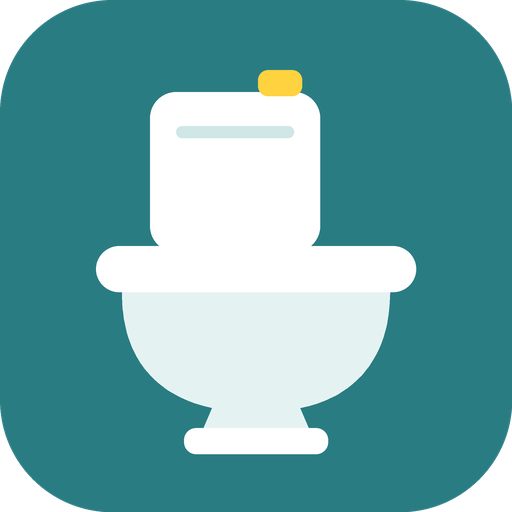
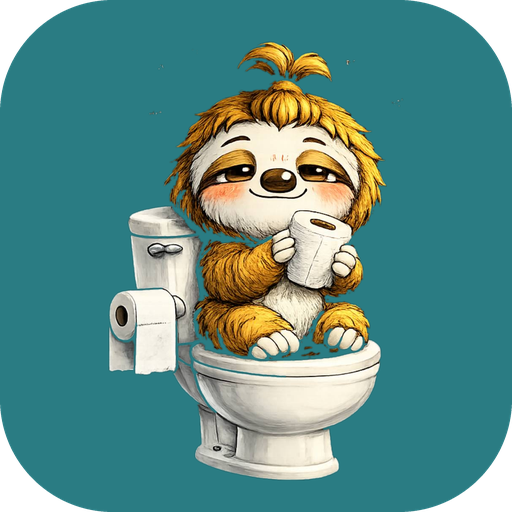
Add files via upload

diff --git a/index.html b/index.html
@@ -56,7 +56,9 @@ button:focus-visible{outline:3px solid var(--teal);outline-offset:2px}
 header{display:flex;align-items:center;justify-content:space-between;gap:12px;margin-bottom:18px;
   background:#2A7C83;color:#fff;border-radius:22px;padding:16px 18px;box-shadow:0 4px 0 #1B565B}
 h1{font-family:Mitr,sans-serif;font-weight:600;font-size:30px;line-height:1.1;margin:0;display:flex;align-items:center;gap:10px}
-h1 .logo{display:inline-grid;place-items:center;width:44px;height:44px;border-radius:14px;background:#FFD23F;font-size:26px}
+.hleft{display:flex;align-items:center;gap:10px;min-width:0}
+.hleft .logo{height:96px;width:auto;flex:none;margin:-14px 0 -14px -6px;filter:drop-shadow(0 3px 4px rgba(0,0,0,.3))}
+@media (max-width:380px){.hleft .logo{height:78px;margin:-10px 0 -10px -4px} h1{font-size:26px}}
 .sync{font-size:13px;color:rgba(255,255,255,.85);margin-top:4px}
 .clock{font-family:Mitr,sans-serif;font-size:16px;color:#fff;text-align:right;background:rgba(255,255,255,.16);border-radius:12px;padding:6px 10px;white-space:nowrap}
 
@@ -176,7 +178,7 @@ tr.sel td{background:var(--tile)}
 .auth.show{display:grid;place-items:center}
 .abox{width:100%;max-width:400px;background:var(--surface);border:1px solid var(--line);border-radius:24px;overflow:hidden}
 .ahead{background:#2A7C83;color:#fff;padding:22px 20px;text-align:center}
-.ahead .logo{display:inline-grid;place-items:center;width:60px;height:60px;border-radius:18px;background:#FFD23F;font-size:34px;margin-bottom:8px}
+.ahead .logo{display:block;height:130px;width:auto;margin:0 auto 8px;filter:drop-shadow(0 3px 5px rgba(0,0,0,.3))}
 .ahead h2{font-family:Mitr,sans-serif;font-size:26px;font-weight:600;margin:0}
 .ahead p{margin:4px 0 0;font-size:14px;opacity:.9}
 .abody{padding:20px}
@@ -213,10 +215,10 @@ tr.sel td{background:var(--tile)}
 <body>
 <div class="wrap">
   <header>
-    <div>
-      <h1><span class="logo" aria-hidden="true">🚽</span>บันทึกขับถ่าย</h1>
[1 lines of base64/hex data omitted]
+      <h1>บันทึกขับถ่าย</h1>
       <div class="sync" id="sync">เก็บในเครื่องนี้</div>
-    </div>
+    </div></div>
     <div class="hright">
       <div class="clock" id="clock"></div>
       <div class="userbar" id="userbar"><button id="logout">ออกจากระบบ</button></div>
@@ -273,7 +275,7 @@ tr.sel td{background:var(--tile)}
 
 <div class="auth" id="auth">
   <div class="abox">
-    <div class="ahead"><div class="logo" aria-hidden="true">🚽</div><h2>บันทึกขับถ่าย</h2><p>เข้าสู่ระบบเพื่อใช้ข้อมูลเดียวกันได้ทุกเครื่อง</p></div>
[1 lines of base64/hex data omitted]
     <div class="abody">
       <div class="acfg" id="acfg" style="display:none">ยังไม่ได้ใส่ค่า Supabase ในไฟล์ (SUPABASE_URL / SUPABASE_ANON_KEY) เลยยังเข้าสู่ระบบไม่ได้<br><button class="tab" id="useLocal" style="margin-top:8px;background:var(--surface);color:var(--ink)">ใช้แบบเก็บในเครื่องนี้ไปก่อน</button></div>
       <div class="tabs" role="tablist">
